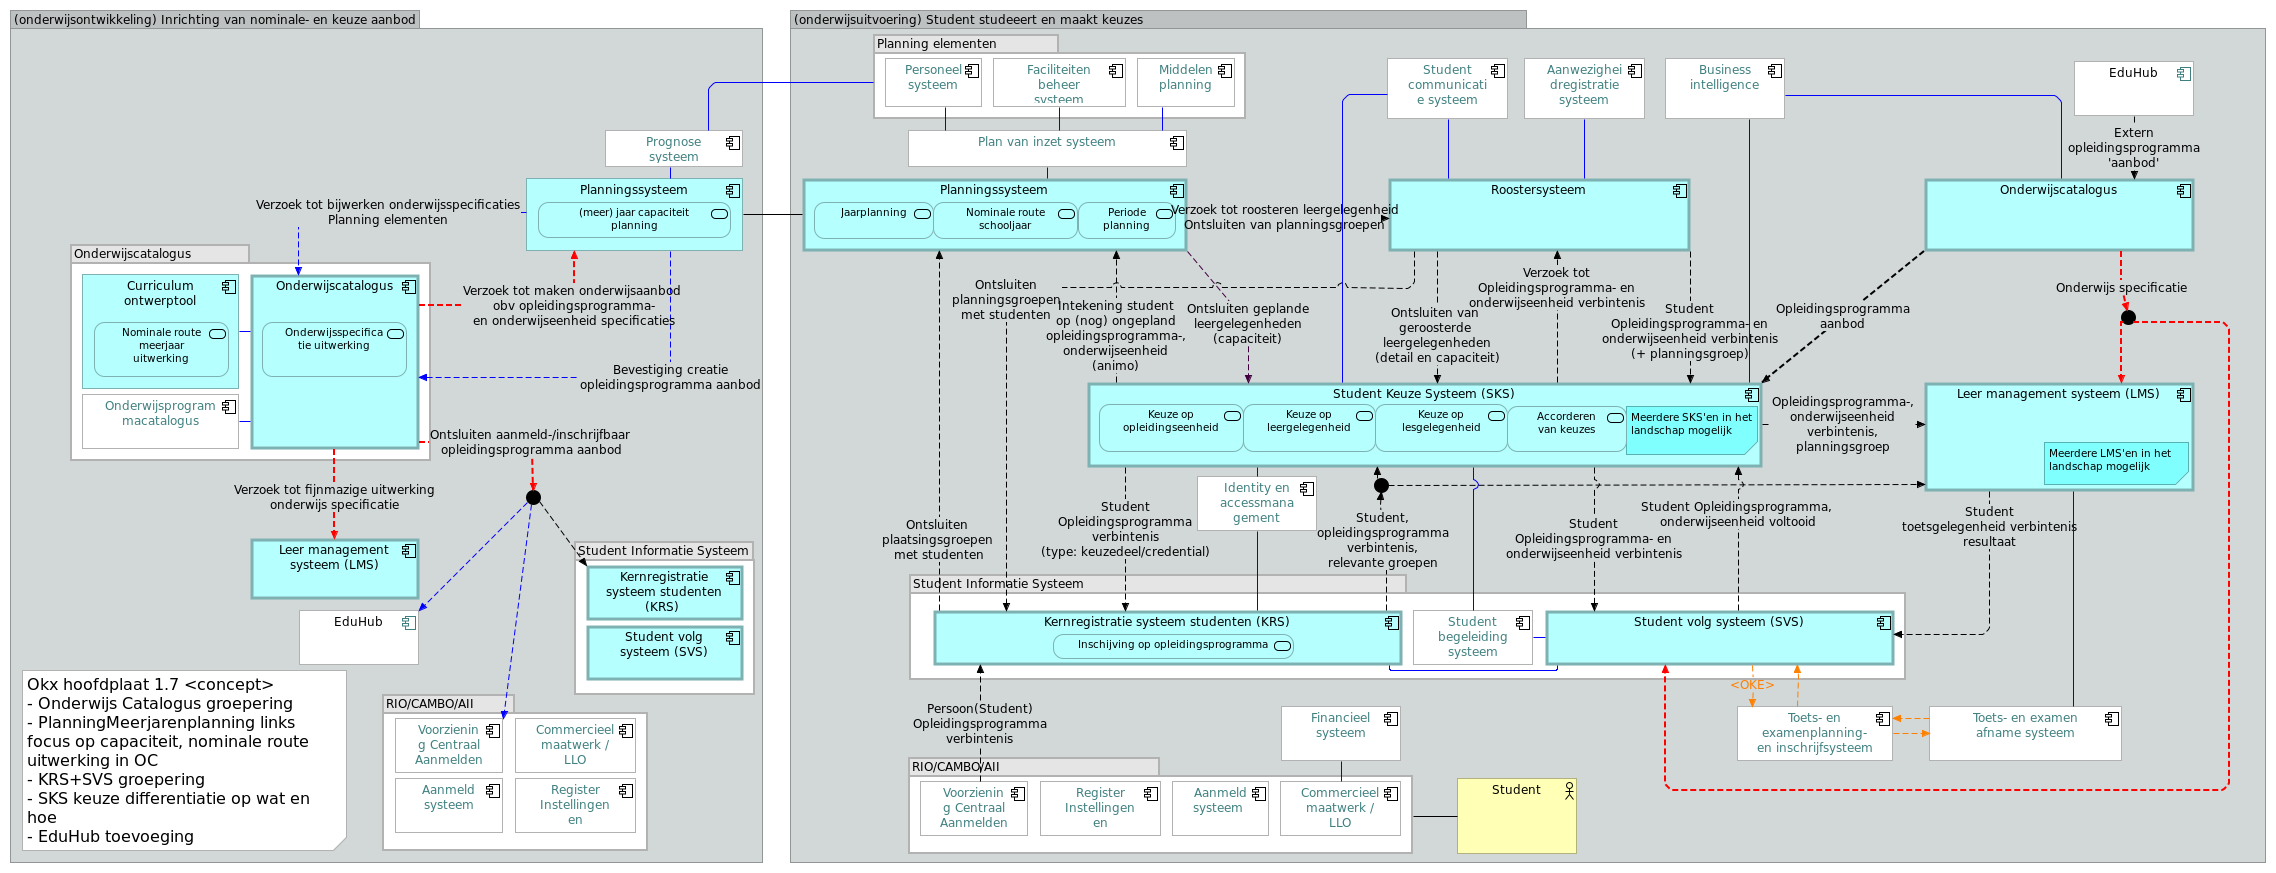
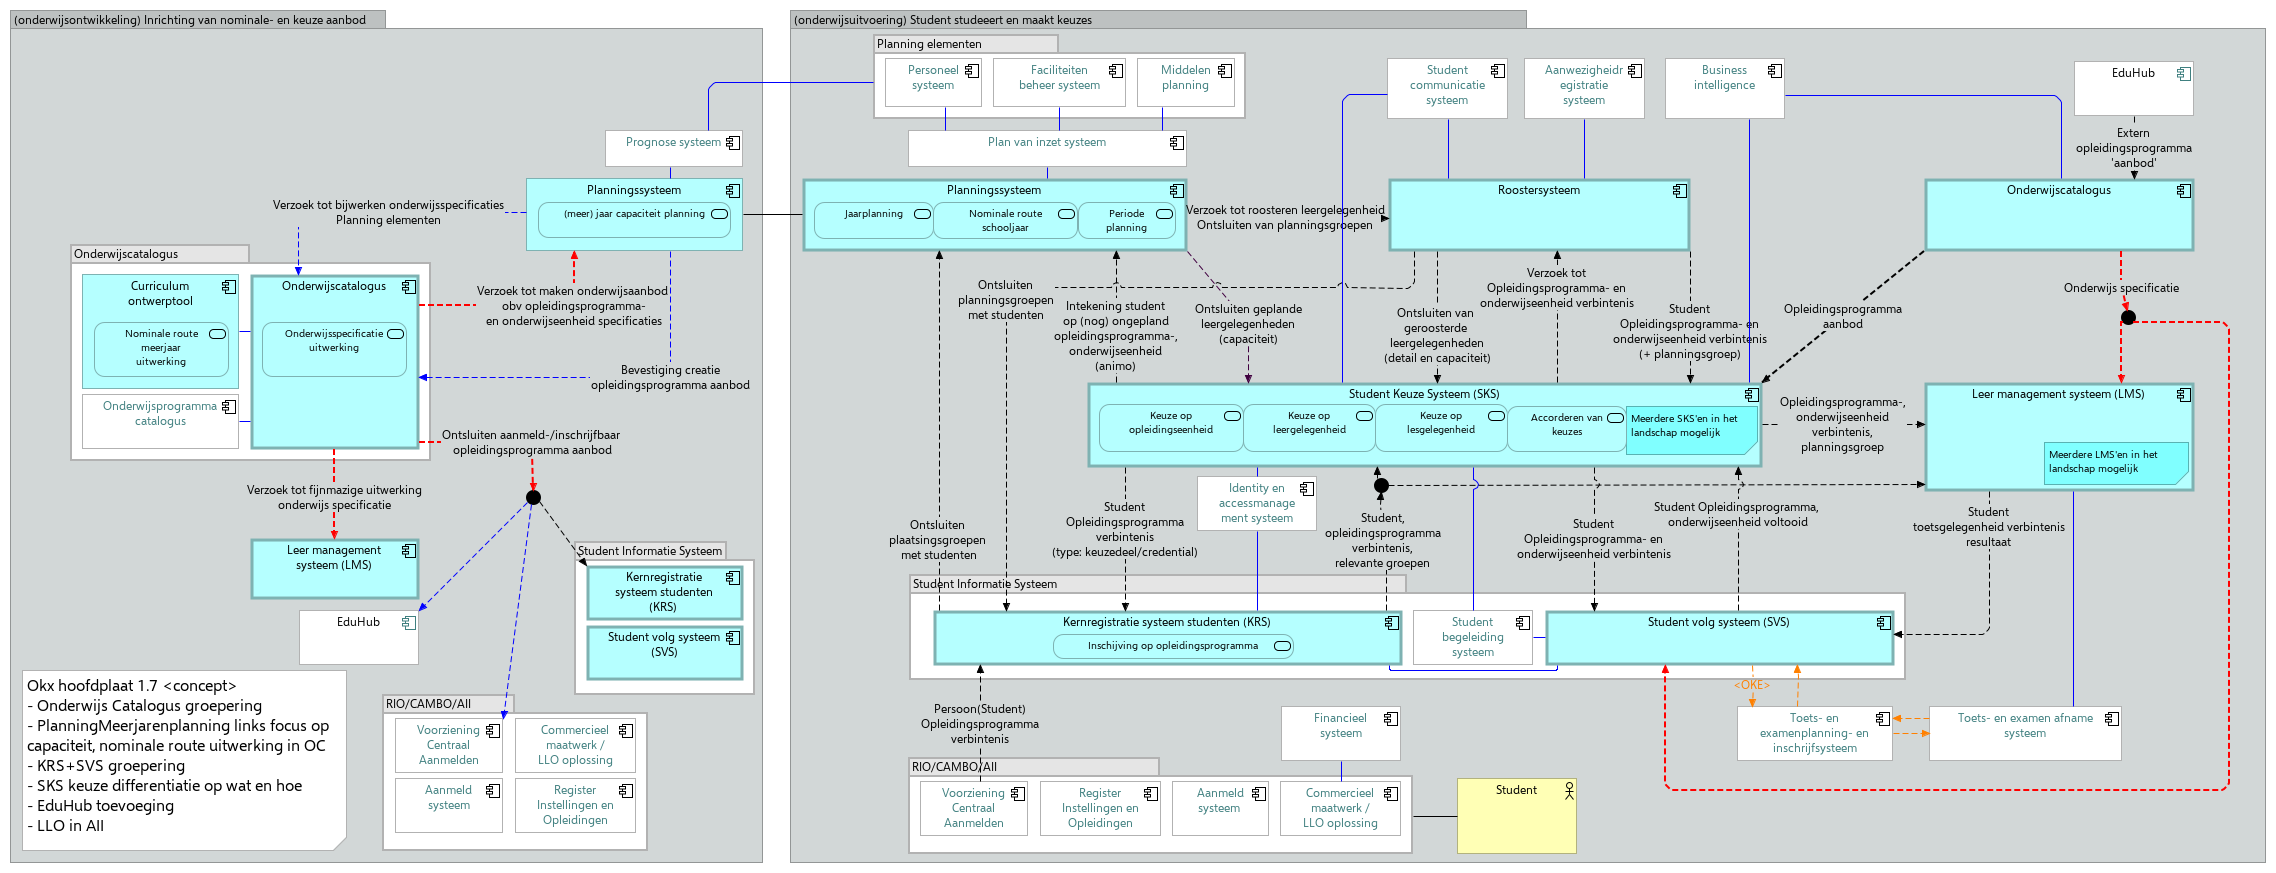
Plaatexport, lettertype: Segoe UI in de dev-container vervangen door Selawik
Archi tekent een vak zonder eigen lettertype in zijn standaardletter: Segoe UI 9
op Windows, de bredere systeemletter in de container. Daardoor brak de export namen
midden in een woord af. De Dockerfile installeert Selawik, de open vervanger van
Microsoft, en lost Segoe UI daarnaar op; het exportscript geeft Archi Segoe UI 9 als
standaard en stopt wanneer de letter niet oplost. Hoofdplaat 1.7.1 opnieuw
geexporteerd uit dezelfde view.

Relateert aan #571

Claude-Session: https://claude.ai/code/session_01U2MjeqKoEDeZ8DcuBYKUcY

diff --git a/tools/scripts/exporteer-archimate-platen.py b/tools/scripts/exporteer-archimate-platen.py
@@ -43,6 +43,12 @@ ET.register_namespace("xsi", "http://www.w3.org/2001/XMLSchema-instance")
 MODEL = pathlib.Path("architecture/model/model.archimate")
 ARCHI = shutil.which("archi") or "/opt/Archi/Archi"
 MARGE = 10  # Archi exporteert een view met 10 px rondom de elementen
+# Een vak zonder eigen lettertype krijgt de standaardletter van Archi. Op Windows is dat
+# Segoe UI 9; op Linux de systeemletter, die breder is en namen midden in een woord
+# afbreekt (#571). Daarom krijgt Archi hier dezelfde standaard als op Windows, en lost
+# fontconfig in de dev-container Segoe UI op naar Selawik, de open vervanger van Microsoft.
+STANDAARDLETTER = "1|Segoe UI|9.0|0|GTK|1|"
+LETTERS_DIE_PASSEN = {"Segoe UI", "Selawik"}
 HOUDERS = {"ApplicationComponent", "BusinessActor", "BusinessRole", "Grouping", "Group", "Node"}
 
 
@@ -187,16 +193,41 @@ def bewerkte_kopie(model, kopie, viewnaam, zonder_pijltekst=False, ruimte=0, hoe
     return factor
 
 
+def opgeloste_letter(naam="Segoe UI"):
+    """De familie waar fontconfig een lettertype naar oplost, of None zonder fc-match."""
+    try:
+        uit = subprocess.run(["fc-match", "-f", "%{family[0]}", naam], capture_output=True, text=True, timeout=30)
+    except FileNotFoundError:
+        return None
+    return uit.stdout.strip() or None
+
+
+def controleer_letter(oplossen=opgeloste_letter):
+    """Stop wanneer Segoe UI niet oplost naar Segoe UI of Selawik: de plaat breekt dan woorden af."""
+    familie = oplossen()
+    if familie not in LETTERS_DIE_PASSEN:
+        sys.exit(f"Segoe UI lost op naar {familie or 'niets'}; de plaat zou namen midden in een woord "
+                 "afbreken. Bouw de dev-container opnieuw, zie .devcontainer/Dockerfile (Selawik, #571)")
+
+
+def archi_opdracht(kopie, rapport, voorkeuren):
+    """De aanroep van Archi, met Segoe UI 9 als standaardletter via een voorkeurenbestand."""
+    voorkeuren.write_text(f"com.archimatetool.editor/defaultViewFont={STANDAARDLETTER}\n", encoding="utf-8")
+    return [ARCHI, "-application", "com.archimatetool.commandline.app", "-consoleLog", "-nosplash",
+            "-pluginCustomization", str(voorkeuren),
+            "--loadModel", str(kopie), "--html.createReport", str(rapport)]
+
+
 def render_rapport(model, werkmap, viewnaam=None, zonder_pijltekst=False, ruimte=0, hoekvast_aan=False):
     """Laat Archi het HTML-rapport maken op een kopie van het model; geeft de map met PNG's."""
+    controleer_letter()
     kopie = werkmap / "model.archimate"
     if viewnaam and (zonder_pijltekst or ruimte or hoekvast_aan):
         bewerkte_kopie(model, kopie, viewnaam, zonder_pijltekst, ruimte, hoekvast_aan)
     else:
         shutil.copy(model, kopie)
     rapport = werkmap / "rapport"
-    opdracht = [ARCHI, "-application", "com.archimatetool.commandline.app", "-consoleLog", "-nosplash",
-                "--loadModel", str(kopie), "--html.createReport", str(rapport)]
+    opdracht = archi_opdracht(kopie, rapport, werkmap / "archi-voorkeuren.ini")
     try:
         uit = subprocess.run(opdracht, capture_output=True, text=True, timeout=600)
     except FileNotFoundError:

diff --git a/tools/tests/test_exporteer_archimate_platen.py b/tools/tests/test_exporteer_archimate_platen.py
@@ -264,3 +264,28 @@ class ArchiIntegratieTests(unittest.TestCase):
 
 if __name__ == "__main__":
     unittest.main()
+
+
+class StandaardletterTests(unittest.TestCase):
+    """#571: een export uit de container breekt geen namen midden in een woord af."""
+
+    def test_given_archi_call_when_built_then_segoe_ui_9_is_default_view_font(self):
+        with tempfile.TemporaryDirectory() as map_:
+            voorkeuren = Path(map_) / "v.ini"
+            opdracht = ep.archi_opdracht(Path(map_) / "m.archimate", Path(map_) / "r", voorkeuren)
+            self.assertIn("-pluginCustomization", opdracht)
+            self.assertEqual(opdracht[opdracht.index("-pluginCustomization") + 1], str(voorkeuren))
+            self.assertIn("com.archimatetool.editor/defaultViewFont=1|Segoe UI|9.0|", voorkeuren.read_text(encoding="utf-8"))
+
+    def test_given_segoe_ui_resolves_to_dejavu_when_checked_then_exit_names_dockerfile(self):
+        with self.assertRaises(SystemExit) as fout:
+            ep.controleer_letter(lambda: "DejaVu Sans")
+        self.assertIn(".devcontainer/Dockerfile", str(fout.exception))
+
+    def test_given_no_fc_match_when_checked_then_exit(self):
+        with self.assertRaises(SystemExit):
+            ep.controleer_letter(lambda: None)
+
+    def test_given_selawik_or_segoe_ui_when_checked_then_passes(self):
+        ep.controleer_letter(lambda: "Selawik")
+        ep.controleer_letter(lambda: "Segoe UI")
